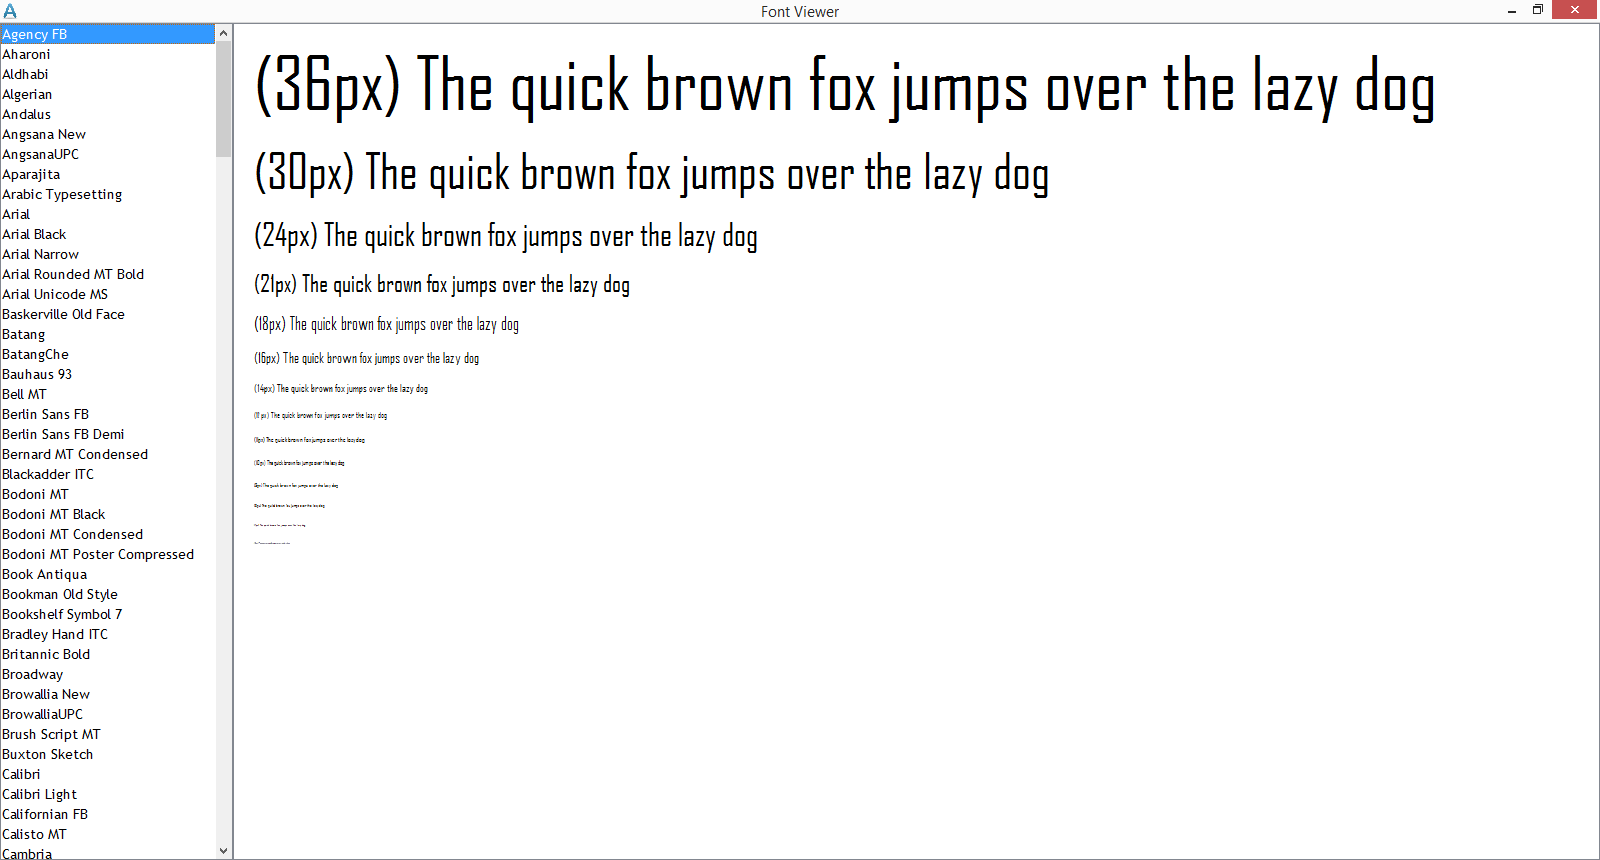
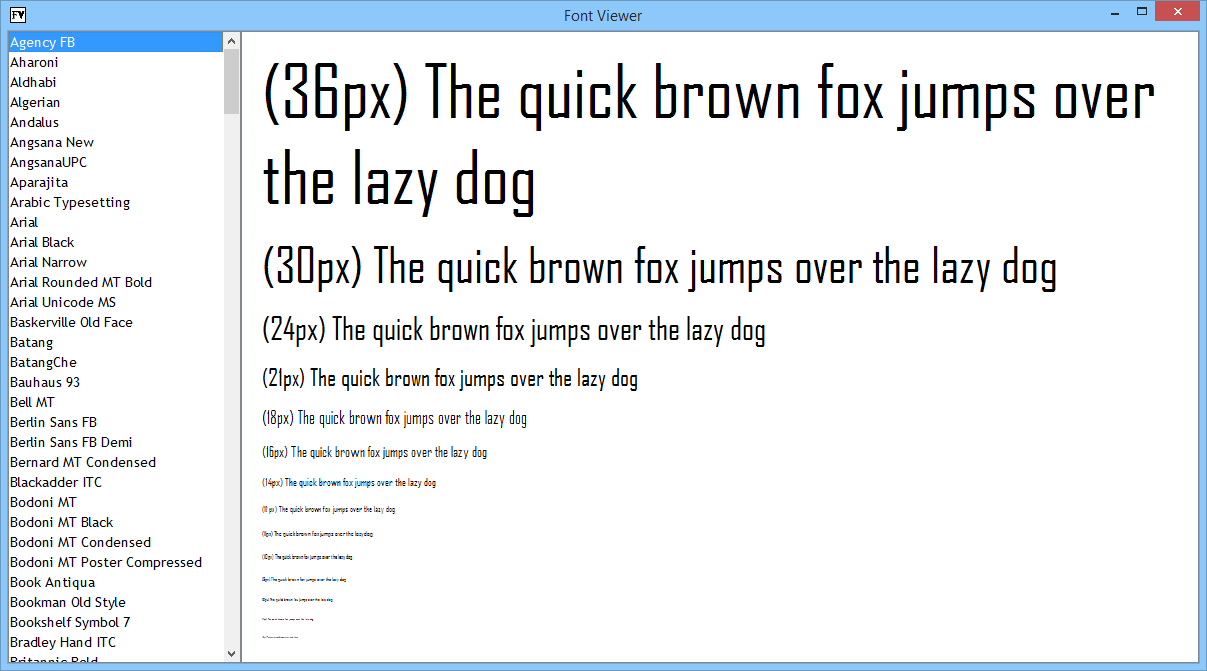
Fix window sizing bug

Changed region(s): [[0.0, 0.0, 1.0, 1.0], [0.2146, 0.7154, 0.3679, 0.8346], [0.2146, 0.8644, 0.2759, 0.924]]

diff --git a/src/fontviewer/FontViewer.java b/src/fontviewer/FontViewer.java
@@ -1,9 +1,11 @@
 package fontviewer;
 import java.awt.BorderLayout;
 import java.awt.Color;
+import java.awt.Dimension;
 import java.awt.Font;
 import java.awt.GraphicsEnvironment;
 
+import javax.swing.ImageIcon;
 import javax.swing.JFrame;
 import javax.swing.JList;
 import javax.swing.JPanel;
@@ -22,14 +24,15 @@ import javax.swing.event.ListSelectionListener;
 
 public class FontViewer
 {
-	private int[] fontSizes = {36, 24, 21, 18, 16, 14, 12, 11, 10, 9, 8, 7, 6}; //in pixels
+	private int[] fontSizes = {36, 30, 24, 21, 18, 16, 14, 12, 11, 10, 9, 8, 7, 6}; //in pixels
 	private final int FONT_SIZE = 40;
 	
 	private JFrame frame;
+	private ImageIcon icon;
 	private JTextPane tpExampleText;
 	private JList<String> fontList;
 	private JPanel panelMain;
-	private JScrollPane scrollPane;
+	private JScrollPane scrollFontList, scrollTextPane;
 
 	public static void main(String[] args)
 	{
@@ -59,7 +62,8 @@ public class FontViewer
 	{		
 		fontList = new JList<String>();
 		tpExampleText = new JTextPane();
-		scrollPane = new JScrollPane();
+		scrollFontList = new JScrollPane();
+		scrollTextPane = new JScrollPane();
 		panelMain = new JPanel();	
 		frame = new JFrame();
 		
@@ -71,22 +75,30 @@ public class FontViewer
 		fontList.setFont(new Font("Trebuchet MS", Font.PLAIN, 14));
 		
 		tpExampleText.setContentType("text/html");
-		fontChangeOccurred();
+		tpExampleText.setEditable(false);
+		tpExampleText.setFocusable(false);
 		tpExampleText.setBorder(new EmptyBorder(0, 20, 10, 20));		
 		tpExampleText.setFont(new Font(fontList.getSelectedValue(), Font.PLAIN, FONT_SIZE));
+		fontChangeOccurred();
 		
-		scrollPane.setViewportView(fontList);
+		scrollFontList.setViewportView(fontList);
+		
+		scrollTextPane.setViewportView(tpExampleText);
 			
 		panelMain.setLayout(new BorderLayout());
-		panelMain.add(scrollPane, BorderLayout.WEST);
-		panelMain.add(tpExampleText, BorderLayout.CENTER);
+		panelMain.add(scrollFontList, BorderLayout.WEST);
+		panelMain.add(scrollTextPane, BorderLayout.CENTER);
 		panelMain.setBackground(Color.WHITE);
+
+		icon = new ImageIcon(this.getClass().getResource("/fontviewer/resources/font_viewer_icon.png"));
 
 		frame.add(panelMain);
 		frame.setTitle("Font Viewer");
+		frame.setIconImage(icon.getImage());
 		frame.setDefaultCloseOperation(JFrame.EXIT_ON_CLOSE);
-		frame.setLocationRelativeTo(null);
 		frame.setExtendedState(frame.getExtendedState() | JFrame.MAXIMIZED_BOTH);
+		frame.setMinimumSize(new Dimension(800, 600));
+		frame.setLocationRelativeTo(null);
 	}
 	
 	private ListSelectionListener fontListSelectionListener = new ListSelectionListener() 
@@ -104,9 +116,10 @@ public class FontViewer
 		
 		for(int i = 0; i < fontSizes.length; i++)
 		{
-			exampleText += "<p style='font-family:" + fontList.getSelectedValue() + "; font-size:" + (fontSizes[i]/16.0f)*100 + "%'>The quick brown fox jumps over the lazy dog (" + fontSizes[i] + "px)</p>";
+			exampleText += "<p style='font-family:" + fontList.getSelectedValue() + "; font-size:" + (fontSizes[i]/16.0f)*100 + "%'>(" + fontSizes[i] + "px) The quick brown fox jumps over the lazy dog</p>";
 		}
 		
 		tpExampleText.setText(exampleText);
+		tpExampleText.setCaretPosition(0);
 	}
 }
